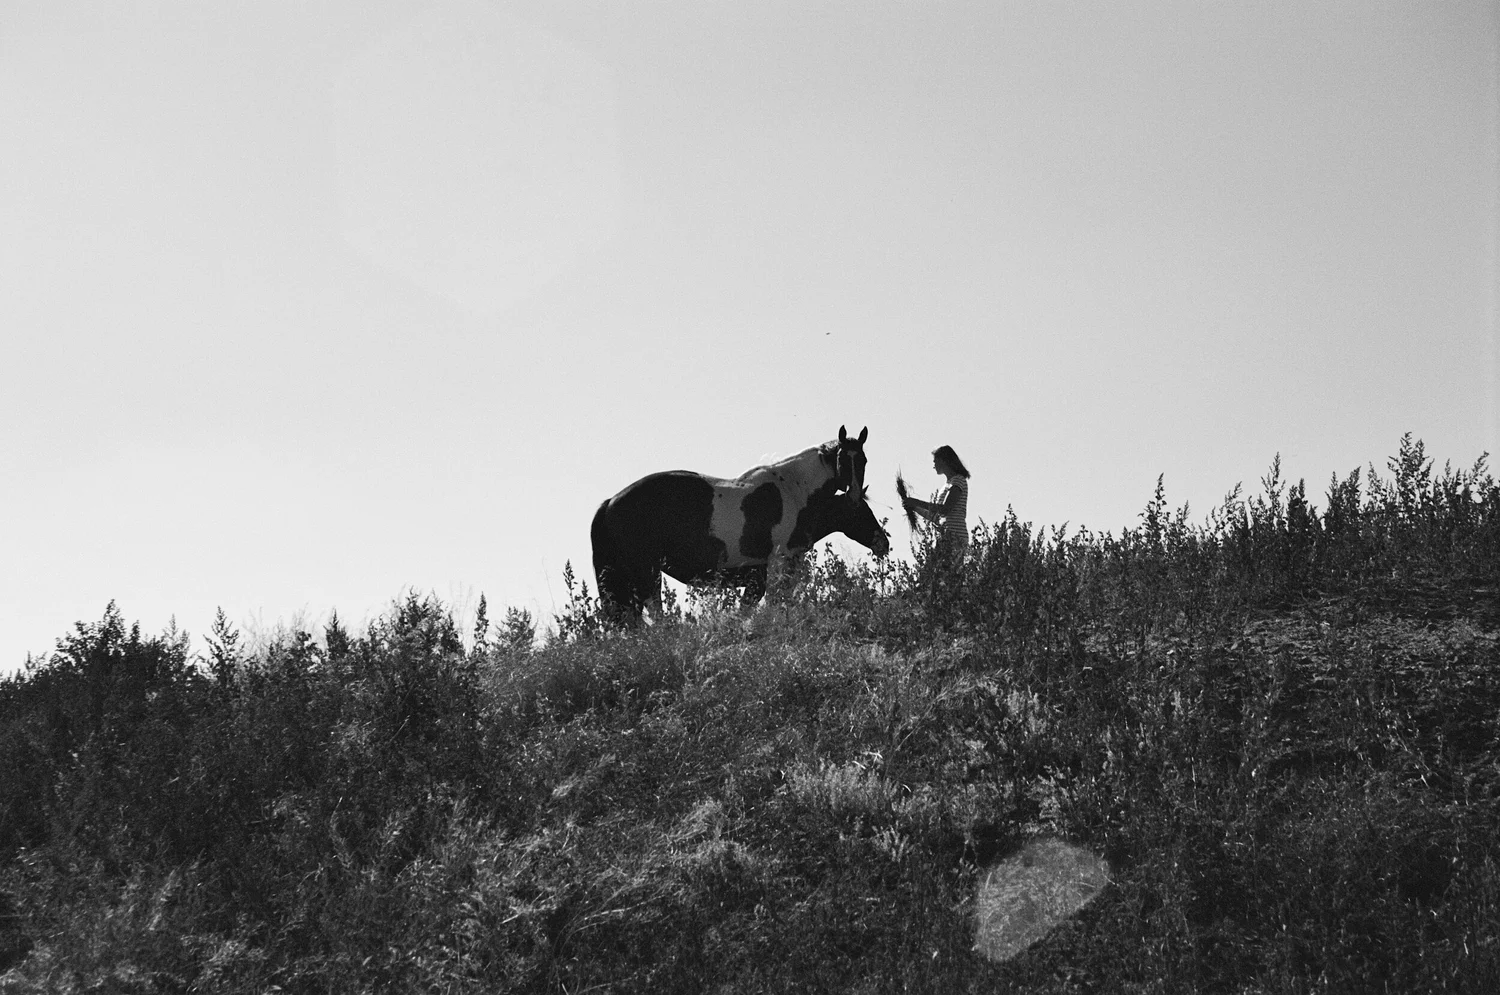
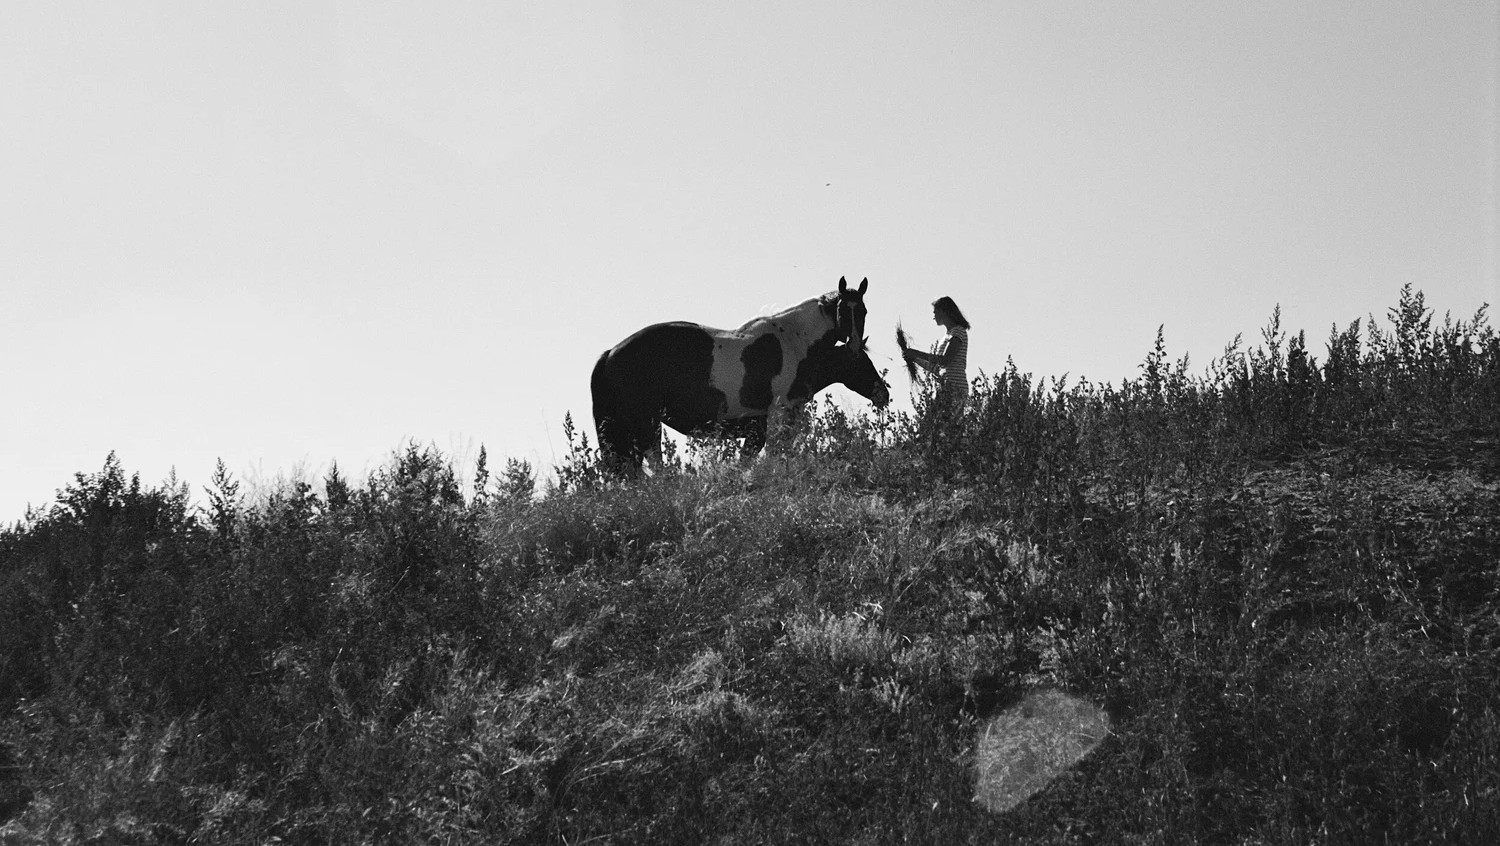
Bio: cards fully inside their images; favorites as narrow card on Paris image; hero trimmed 15%; shorter bamboo bands

Changed region(s): [[0.0, 0.3073, 1.0, 1.0], [0.8893, 0.922, 0.92, 0.9527]]

diff --git a/bio/index.html b/bio/index.html
@@ -42,11 +42,12 @@ a:focus-visible{outline:2px solid var(--accent);outline-offset:3px;border-radius
 .story-stack{font-size:0}
 .stack-img{width:100%;display:block}
 .map-wrap{position:relative;font-size:16.5px}
-.map-wrap .txt,.story-stack .txt{max-width:600px;background:rgba(252,251,248,.93);padding:34px 38px;box-shadow:0 2px 24px rgba(33,30,26,.12);font-size:16.5px;line-height:1.8}
+.map-wrap .txt,.story-stack .txt{max-width:600px;background:rgba(252,251,248,.93);padding:30px 34px;box-shadow:0 2px 24px rgba(33,30,26,.12);font-size:16.5px;line-height:1.8}
 .story-stack .txt p{margin:0}
-.bridge{position:absolute;top:0;left:24px;right:24px;margin:0 auto;transform:translateY(-52%);z-index:2}
-.second{position:absolute;bottom:clamp(16px,6vh,60px);right:clamp(16px,7vw,110px);left:24px;margin-left:auto;z-index:2}
-@media (max-width:720px){.bridge{position:static;transform:none;margin:-60px 16px 14px}.second{position:static;margin:14px 16px 0 auto}}
+.hero-wrap{position:relative}
+.story-card{position:absolute;left:clamp(20px,6vw,90px);top:12%;max-width:520px}
+.second{position:absolute;right:4%;bottom:6%;max-width:520px}
+@media (max-width:860px){.story-card,.second{position:static;margin:0}.map-wrap .txt,.story-stack .txt{max-width:none}}
 /* places band */
 .places-band{position:relative;padding:64px 24px}
 .places-band::before{content:'';position:absolute;inset:0;background:url('/assets/img/bamboo.jpg') center/cover;opacity:.16;filter:saturate(.6)}
@@ -58,13 +59,12 @@ a:focus-visible{outline:2px solid var(--accent);outline-offset:3px;border-radius
 .paper-text .txt{max-width:620px}
 .paper-text .txt p{margin:0 0 1.5em}
 .paper-text .txt p:last-child{margin-bottom:0}
-/* favorites — spatial inverse of the places */
-.favorites{position:relative;padding:64px 24px 76px}
-.favorites::before{content:'';position:absolute;inset:0;background:url('/assets/img/bamboo.jpg') center/cover;opacity:.16;filter:saturate(.6)}
-.fav-inner{position:relative;max-width:660px;margin:0 auto;text-align:right}
-.fav-lead{font-size:1.02rem;margin:0 0 34px}
-.favorites p{margin:0 0 16px}
-.fav-inner p[style]{font-family:'Source Serif 4',Georgia,serif;font-style:italic;font-weight:300;font-size:1.3rem;line-height:1.6;padding-right:calc(var(--i)*clamp(10px,3vw,34px))}
+/* favorites card on the Paris image */
+.overlay-left{justify-content:flex-start;padding-left:clamp(24px,7vw,110px)}
+.fav-card{max-width:300px;text-align:right}
+.fav-lead{font-size:.92rem;margin:0 0 18px}
+.fav-card .fav{font-family:'Source Serif 4',Georgia,serif;font-style:italic;font-weight:300;font-size:1.06rem;line-height:1.55;margin:0 0 10px;padding-right:calc(var(--i)*clamp(4px,1vw,12px))}
+.fav-card .fav:last-child{margin-bottom:0}
 /* footer */
 .site-foot{border-top:1px solid #DDD7CC}
 .site-foot .shell{max-width:1220px;margin:0 auto;padding:26px 24px 34px;display:flex;flex-wrap:wrap;justify-content:space-between;gap:10px 28px;font-size:.84rem;color:var(--muted)}
@@ -94,9 +94,11 @@ a:focus-visible{outline:2px solid var(--accent);outline-offset:3px;border-radius
 </header>
 
 <section class="story-stack">
-  <img class="stack-img" src="/assets/img/bio-hero.jpg" alt="Black-and-white photograph of a girl with a paint horse on a sagebrush hillside in central Wyoming.">
+  <div class="hero-wrap">
+    <img class="stack-img" src="/assets/img/bio-hero.jpg" alt="Black-and-white photograph of a girl with a paint horse on a sagebrush hillside in central Wyoming.">
+    <div class="txt story-card"><p>My story took shape on the high plains of central Wyoming, a landscape famous for its desolate expanses, fierce winds, and conservative culture. I grew up surrounded by space, and lots of it, but I harbored a distinct feeling of isolation from a young age. (Painful experiences being bullied in elementary school didn&rsquo;t help.) Books offered me a means of transcending the confines of my geographical isolation and social exclusion, I especially delighted in stories about the fearless and independent pioneer women who walked my same lands.</p></div>
+  </div>
   <div class="map-wrap">
-    <div class="txt bridge"><p>My story took shape on the high plains of central Wyoming, a landscape famous for its desolate expanses, fierce winds, and conservative culture. I grew up surrounded by space, and lots of it, but I harbored a distinct feeling of isolation from a young age. (Painful experiences being bullied in elementary school didn&rsquo;t help.) Books offered me a means of transcending the confines of my geographical isolation and social exclusion, I especially delighted in stories about the fearless and independent pioneer women who walked my same lands.</p></div>
     <img class="stack-img" src="/assets/img/fukuoka-aerial.jpg" alt="Satellite map view of the family ranch on Dusty Lane in Wyoming, with Lindsey&rsquo;s old Fukuoka address typed in the search bar.">
     <div class="txt second"><p>A Japanese aunt living across the country sparked my interest in Asia early on, and thanks to her I started reading stories about and by women in Japan and the lands they walked. The path of learning and education I set out upon, influenced by these early experiences and nurtured by a series of especially fine mentors, has led me through an array of spaces.</p></div>
   </div>
@@ -129,15 +131,13 @@ a:focus-visible{outline:2px solid var(--accent);outline-offset:3px;border-radius
   </div>
 </section>
 
-<section class="panel img-paris" role="img" aria-label="Lindsey and her daughters on Pont Alexandre III in Paris, the Eiffel Tower in the distance."></section>
-
-<section class="favorites">
-  <div class="fav-inner">
+<section class="panel img-paris overlay overlay-left">
+  <div class="txt fav-card">
     <p class="fav-lead">And then we have all the rest. I&rsquo;ll end here with just a few of my favorite things:</p>
-    <p style="--i:0">road trips.</p>
-    <p style="--i:1">dinner parties.</p>
-    <p style="--i:2">walks in nature.</p>
-    <p style="--i:3">dance sessions with my favorite DJ (my husband) and his two superfans (our daughters).</p>
+    <p class="fav" style="--i:0">road trips.</p>
+    <p class="fav" style="--i:1">dinner parties.</p>
+    <p class="fav" style="--i:2">walks in nature.</p>
+    <p class="fav" style="--i:3">dance sessions with my favorite DJ (my husband) and his two superfans (our daughters).</p>
   </div>
 </section>
 
